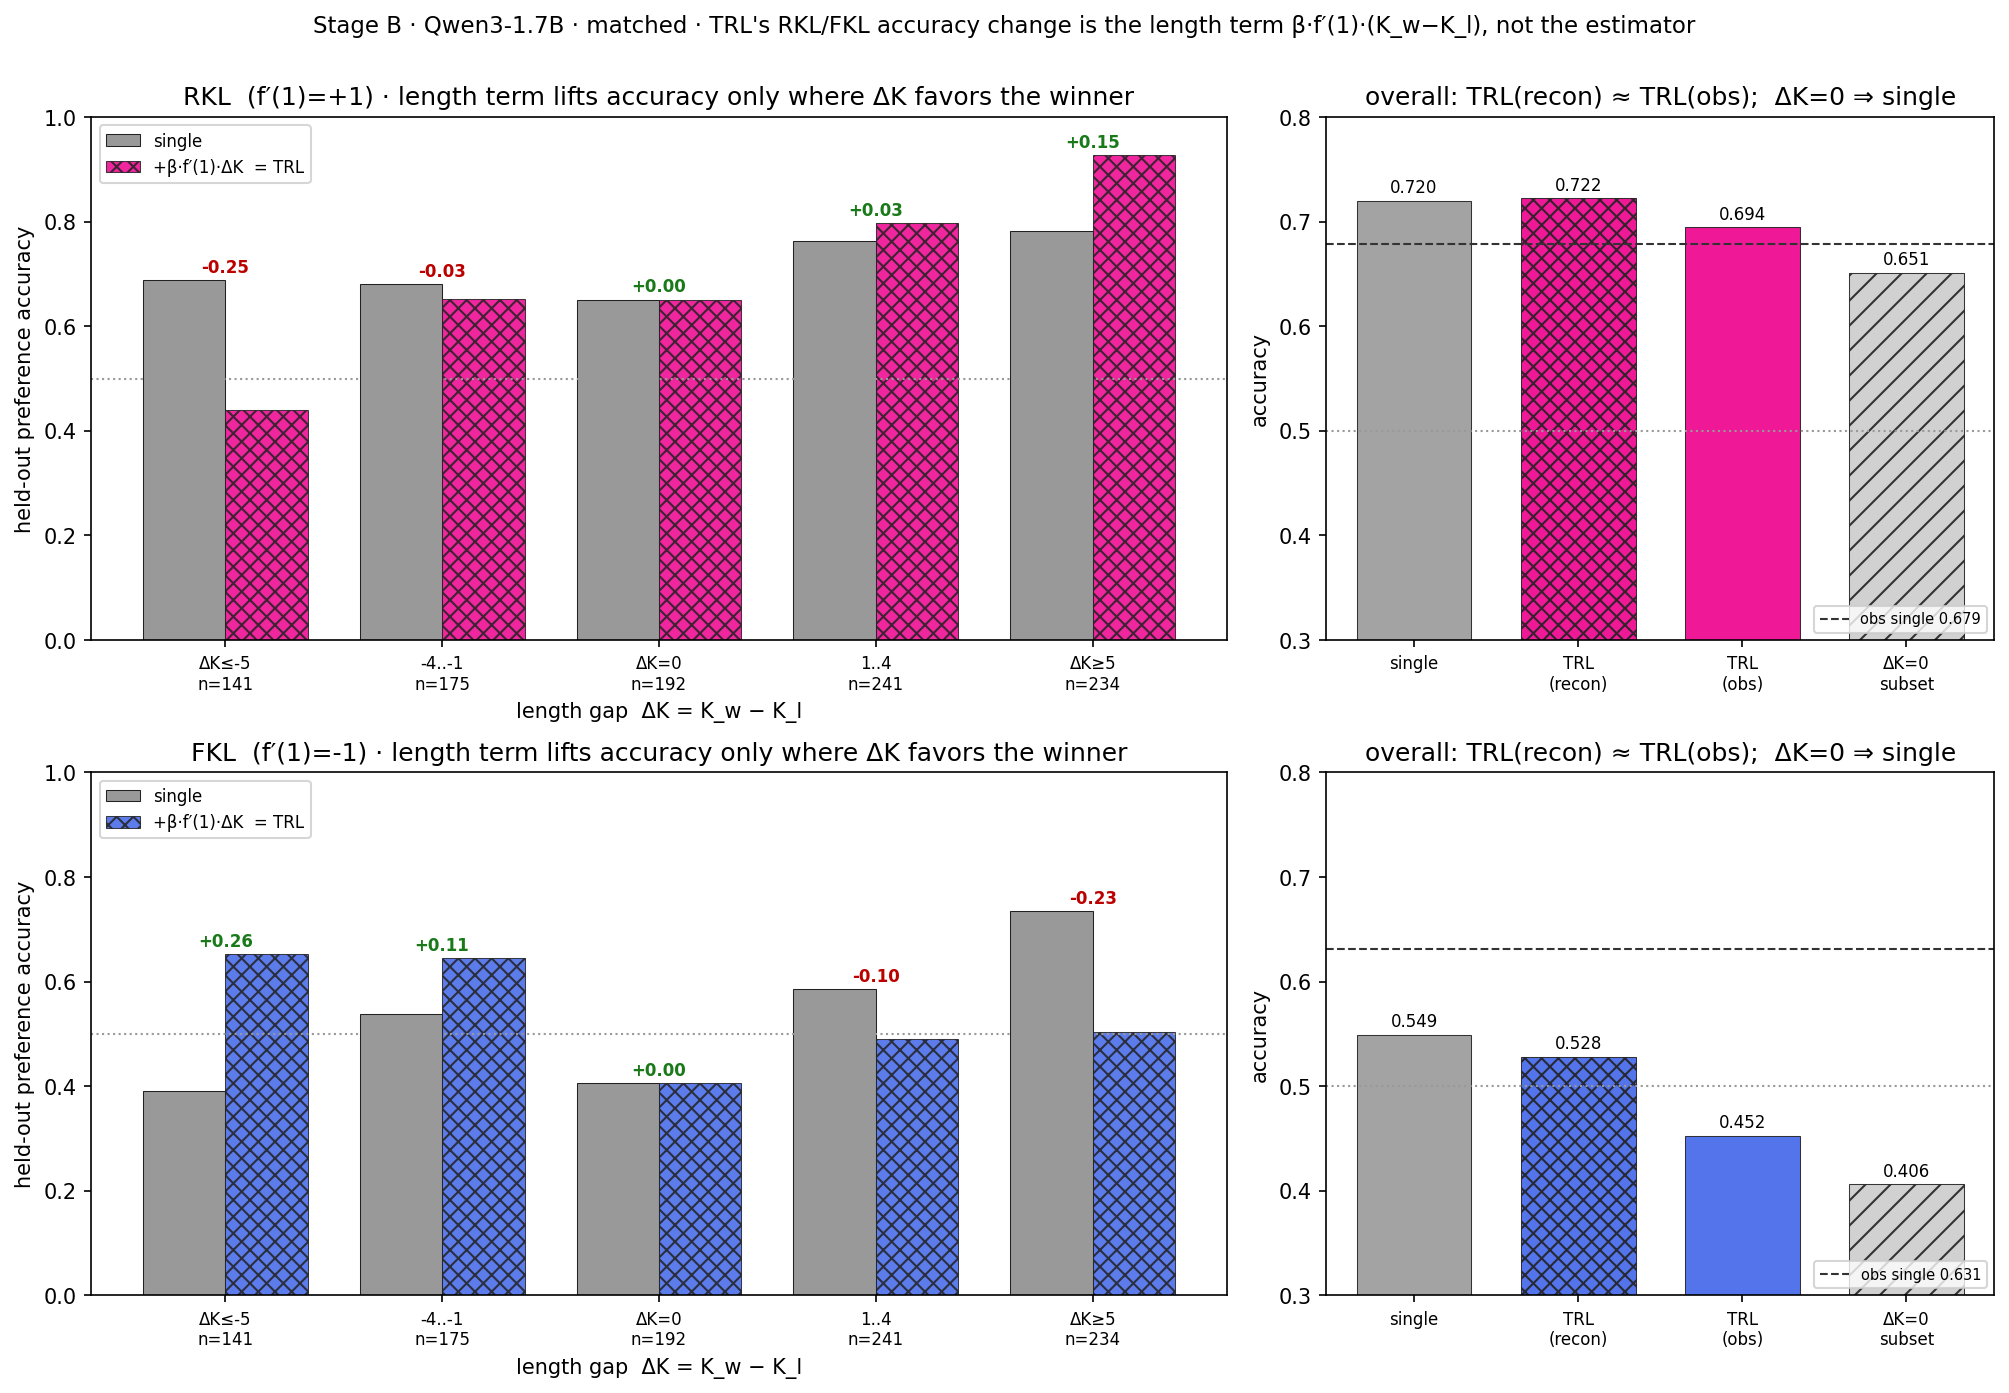
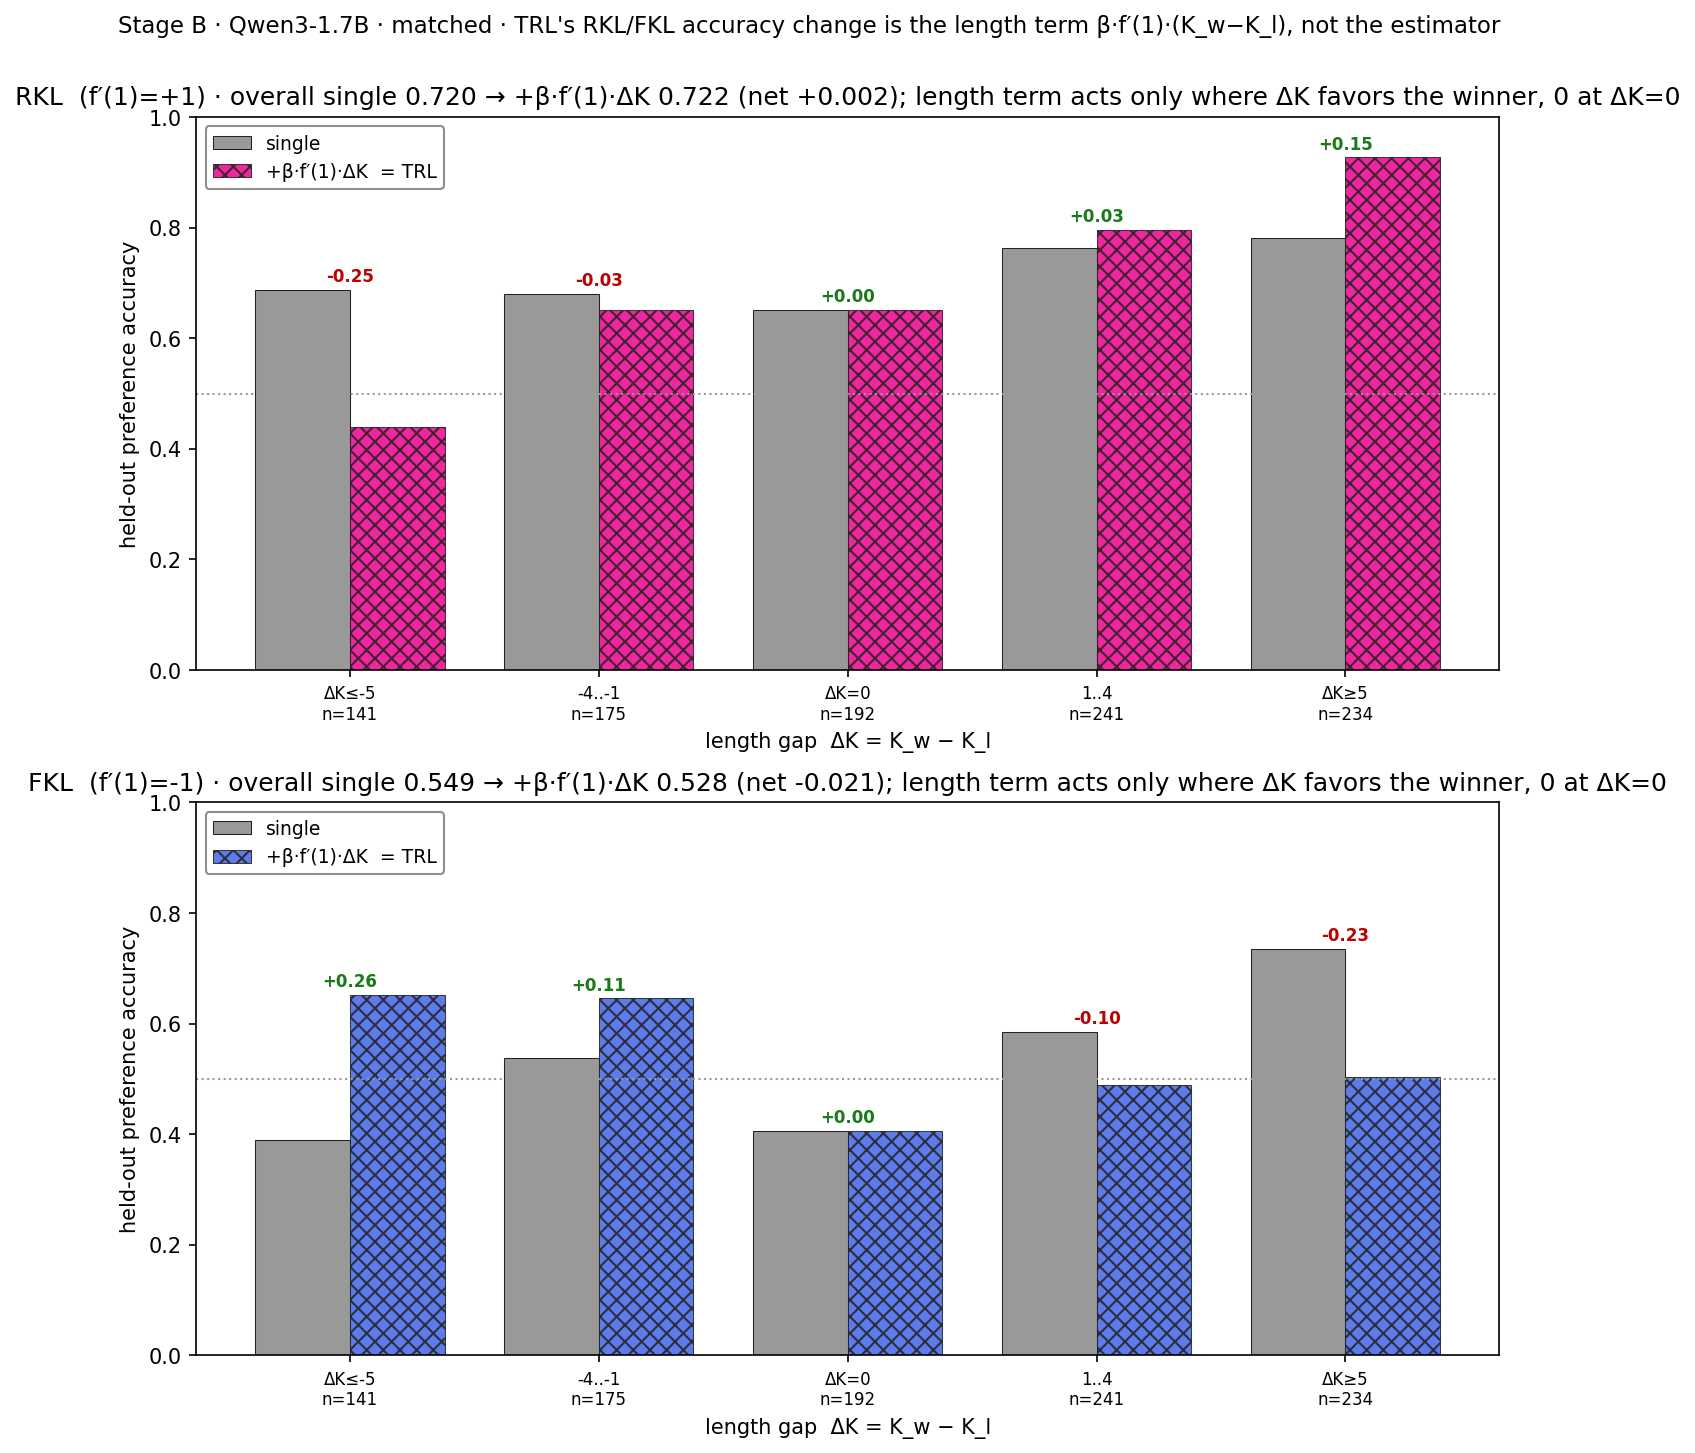
fig_length_bias: keep only the ΔK-stratified panel (drop the confounded overall-bars panel)
The right overall-bars panel mixed clean probe numbers (single, TRL-recon, ΔK=0 subset; same
model, all 983 pairs) with the originally-logged TRL/single (different θ, 252-pair subset), inviting
a false "recon ≈ obs" reading. The stratified panel alone is the unconfounded proof: length term
monotone in ΔK, exactly 0 at ΔK=0, sign = f'(1). Overall single→TRL(net) now summarized in each title.

diff --git a/llm/fig_length_bias.py b/llm/fig_length_bias.py
@@ -73,8 +73,7 @@ def main():
                          f"scp results/lenbias/*.csv here first.")
 
     b = args.beta
-    fig, axes = plt.subplots(len(present), 2, figsize=(13.5, 4.6 * len(present)),
-                             gridspec_kw={"width_ratios": [1.7, 1]}, squeeze=False)
+    fig, axes = plt.subplots(len(present), 1, figsize=(9.5, 4.8 * len(present)), squeeze=False)
     print(f"{'Ω':6s} {'f′(1)':>6s} {'single':>8s} {'TRLrec':>8s} {'TRLobs':>8s} {'ΔK=0':>8s}  (n)")
     for row, d in enumerate(present):
         m, dK = load_csv(os.path.join(args.dir, f"stageB_{d}_newline_{tag}_perpair.csv"))
@@ -110,27 +109,9 @@ def main():
         axL.set_xticklabels([f"{l}\nn={n}" for l, n in zip(BIN_LABEL, n_bin)], fontsize=8)
         axL.set_ylim(0.0, 1.0); axL.set_ylabel("held-out preference accuracy")
         axL.set_xlabel("length gap  ΔK = K_w − K_l")
-        axL.set_title(f"{SHORT[d]}  (f′(1)={fp1:+.0f}) · length term lifts accuracy only where ΔK favors the winner")
-        axL.legend(fontsize=8, loc="upper left")
-
-        # ── R: overall bars ──────────────────────────────────────────────────────────────
-        axR = axes[row][1]
-        labs = ["single", "TRL\n(recon)", "TRL\n(obs)", "ΔK=0\nsubset"]
-        vals = [a_single, a_trl, obs_trl if obs_trl is not None else np.nan, a_z]
-        cols = ["0.6", col, col, "0.8"]
-        hats = ["", "xxx", "", "//"]
-        bars = axR.bar(np.arange(4), vals, 0.7, color=cols, alpha=0.9,
-                       hatch=hats, edgecolor="#222", lw=0.5)
-        for xi, v in zip(np.arange(4), vals):
-            if np.isfinite(v):
-                axR.annotate(f"{v:.3f}", (xi, v + 0.008), ha="center", fontsize=8)
-        if obs_sgl is not None:
-            axR.axhline(obs_sgl, color="#333", ls="--", lw=1, label=f"obs single {obs_sgl:.3f}")
-            axR.legend(fontsize=7, loc="lower right")
-        axR.axhline(0.5, color="0.6", ls=":", lw=1)
-        axR.set_xticks(np.arange(4)); axR.set_xticklabels(labs, fontsize=8)
-        axR.set_ylim(0.3, max(0.8, np.nanmax(vals) + 0.05)); axR.set_ylabel("accuracy")
-        axR.set_title("overall: TRL(recon) ≈ TRL(obs);  ΔK=0 ⇒ single")
+        axL.set_title(f"{SHORT[d]}  (f′(1)={fp1:+.0f}) · overall single {a_single:.3f} → +β·f′(1)·ΔK {a_trl:.3f} "
+                      f"(net {a_trl-a_single:+.3f}); length term acts only where ΔK favors the winner, 0 at ΔK=0")
+        axL.legend(fontsize=9, loc="upper left", framealpha=0.95, edgecolor="#888")
 
     fig.suptitle(f"Stage B · Qwen3-1.7B · {args.recipe} · TRL's RKL/FKL accuracy change is the length "
                  "term β·f′(1)·(K_w−K_l), not the estimator", fontsize=11, y=1.0)
